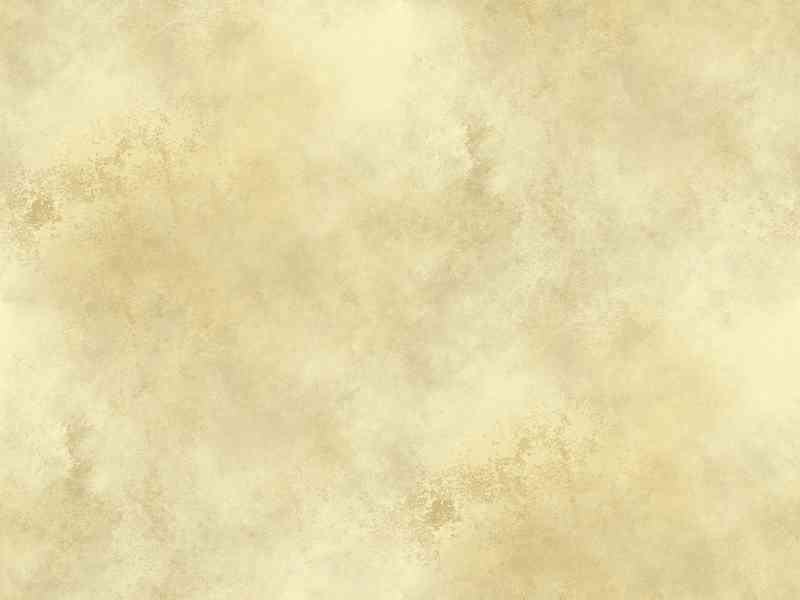
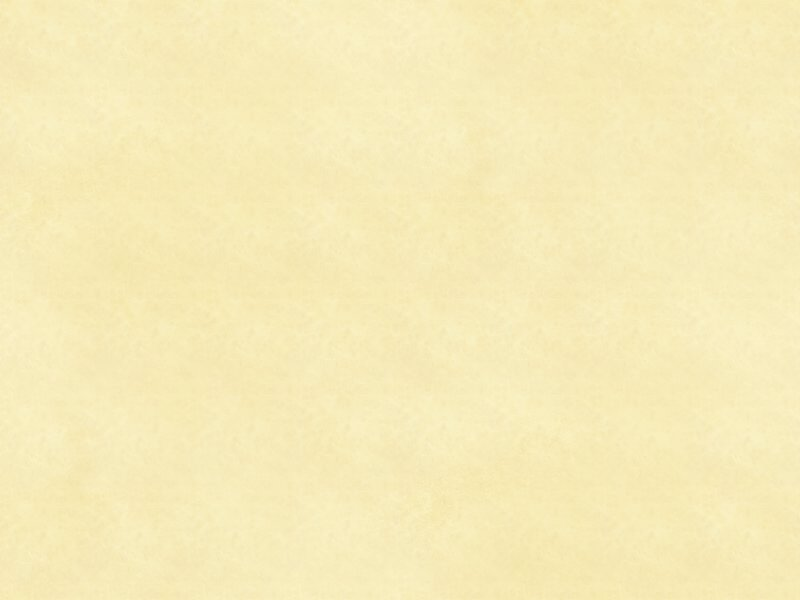
[svn] - brighter background image

diff --git a/community/web/images/cards/full.css b/community/web/images/cards/full.css
@@ -4,7 +4,7 @@ body
 		margin:0px;
 		padding:6px;
 		width: 90%;
-		background-image:url('/images/freeciv/bg_lowquality.jpg');
+		background-image:url('/images/cards/bg_lowquality.jpg');
 	}
 
 #pagehead
@@ -37,7 +37,7 @@ body
 		font-style:normal;
 		padding:2px;
 		text-align:right;
-		background-image:url('/images/freeciv/menu_dark.png');
+		background-image:url('/images/cards/menu_dark.png');
 	}
 
 #leftbar
@@ -52,7 +52,7 @@ body
 		z-index:50;
 		font-size:9pt;
 		font-family:sans-serif;
-		background-image:url('/images/freeciv/menu_dark.png');
+		background-image:url('/images/cards/menu_dark.png');
 		color: #ffffff;
 	}
 
@@ -68,7 +68,7 @@ body
 		z-index:50;
 		font-size:9pt;
 		font-family:sans-serif;
-		background-image:url('/images/freeciv/menu_dark.png');
+		background-image:url('/images/cards/menu_dark.png');
 		color: #ffffff;
 	}
 
@@ -88,7 +88,7 @@ body
 		font-weight:normal;
 		font-style:normal;
 		z-index:50;
-		background-image:url('/images/freeciv/menu_dark.png');
+		background-image:url('/images/cards/menu_dark.png');
 	}
 
 #main .note, #acknowledgements .note
@@ -218,7 +218,7 @@ body
 		border-right: 1px #101050 solid;
 		border-bottom: 1px #101050 solid;
 		color:#DFDFDF;
-		background-image:url('/images/freeciv/menu_bright.png');
+		background-image:url('/images/cards/menu_bright.png');
 	}
 
 #main h2, #acknowledgements h2
@@ -320,7 +320,7 @@ hr.leather
 		height:6px;
 		margin-left:6px;
 		margin-right:6px;
-		background-image:url('/images/freeciv/menu_bright.png');
+		background-image:url('/images/cards/menu_bright.png');
 	}
 
 #pagehead div.menu
@@ -375,7 +375,7 @@ hr.leather
 		border-left: 1px #3030C0 solid;
 		border-right: 1px #101050 solid;
 		border-bottom: 1px #101050 solid;
-		background-image:url('/images/freeciv/menu_bright.png');
+		background-image:url('/images/cards/menu_bright.png');
 	}
 
 #pagehead div.menu:hover > div.menu
@@ -396,7 +396,7 @@ hr.leather
 		border-right: 1px #101050 solid;
 		border-bottom: 1px #101050 solid;
 		color:#FFFFFF;
-		background-image:url('/images/freeciv/menu_bright.png');
+		background-image:url('/images/cards/menu_bright.png');
 	}
 
 #leftbar div.menu, #rightbar div.menu
@@ -407,7 +407,7 @@ hr.leather
 		text-align:center;
 		background-color:#000000;
 		color: #FFFFFF;
-		background-image:url('/images/freeciv/menu_bright.png');
+		background-image:url('/images/cards/menu_bright.png');
 	}
 
 #leftbar a.menuitem, #rightbar a.menuitem
@@ -450,7 +450,7 @@ hr.leather
 		border-left: 1px #3030C0 solid;
 		border-right: 1px #101050 solid;
 		border-bottom: 1px #101050 solid;
-		background-image:url('/images/freeciv/menu_bright.png');
+		background-image:url('/images/cards/menu_bright.png');
 		color: #a0a0ff;
 	}
 
@@ -469,7 +469,7 @@ form.leather
 		border-left: 1px #3030C0 solid;
 		border-right: 1px #101050 solid;
 		border-bottom: 1px #101050 solid;
-		background-image:url('/images/freeciv/menu_bright.png');
+		background-image:url('/images/cards/menu_bright.png');
 		color: #ffffff;
 	}
 
